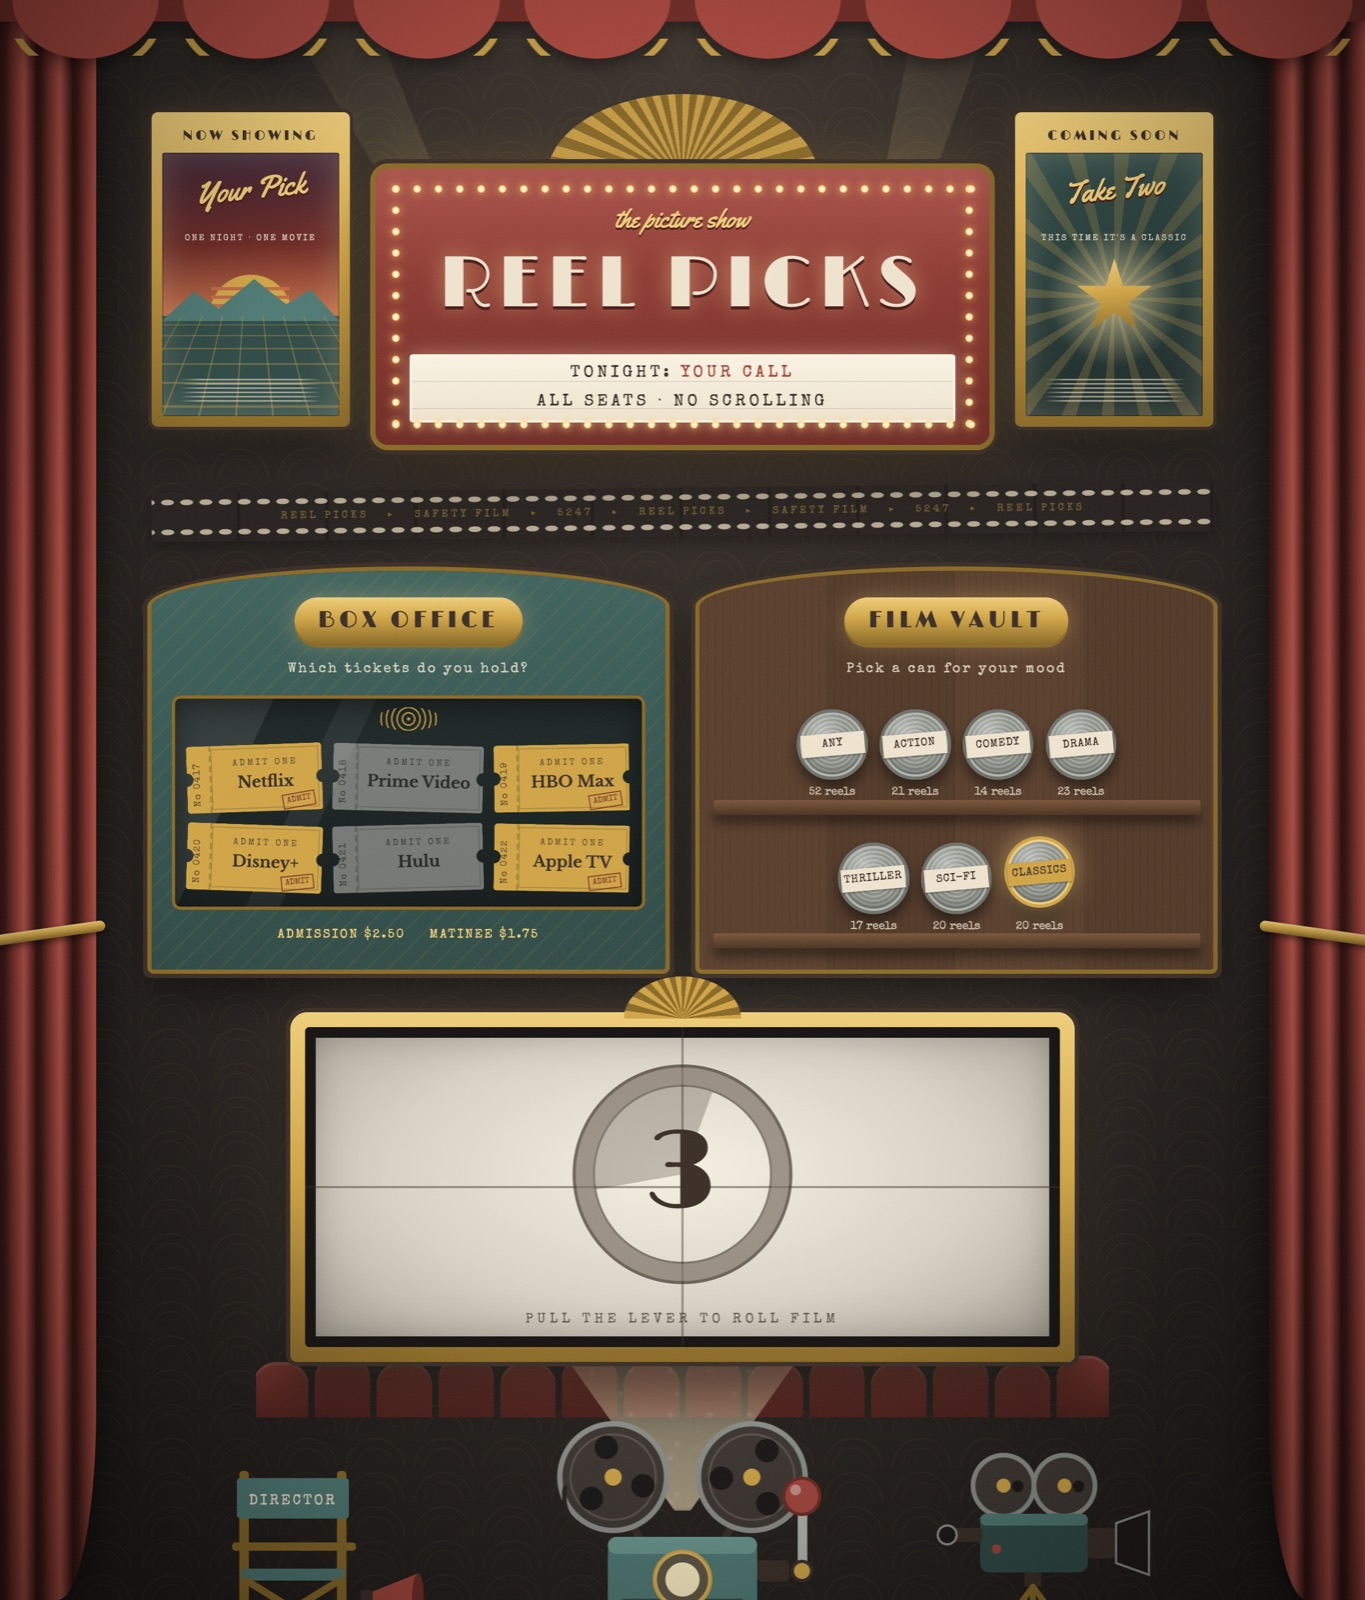
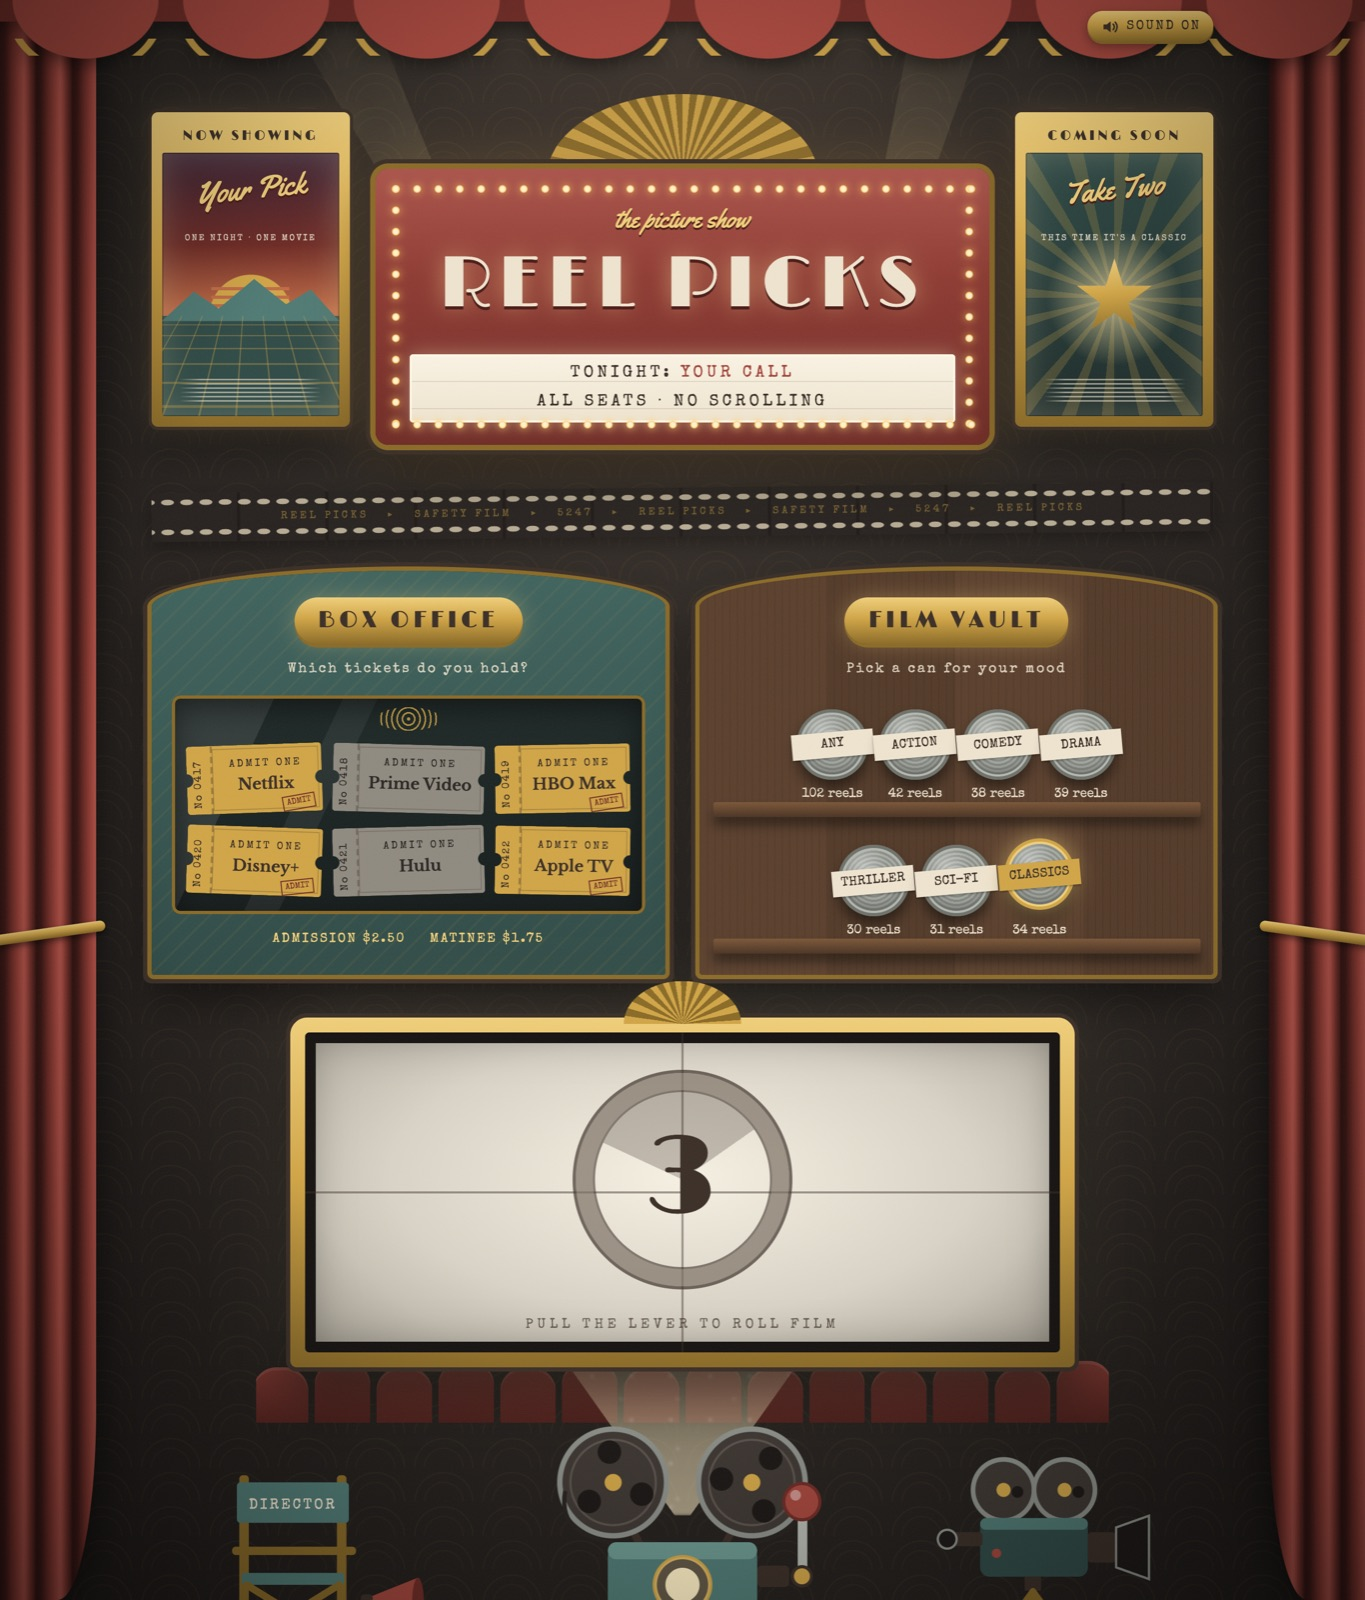
docs: v1.0 case study, ADR 0011, Lighthouse scores, refreshed screenshots

diff --git a/docs/CASE_STUDY.md b/docs/CASE_STUDY.md
@@ -1,0 +1,124 @@
+# Case study: Reel Picks
+
+**One line:** a one-screen web app that turns "what do we watch tonight?" into a three-second,
+slightly theatrical ritual: pick your services and a mood, pull a lever, get one movie.
+
+**Live:** https://ashwynkmr.github.io/reel-picks/ · **Code and history:** this repository
+
+![The spin](design/screenshots/spin.gif)
+
+---
+
+## 1. The problem
+
+Households pay for several streaming services, but every app only shows its own library and is
+designed to keep you browsing. Aggregators solve _where is it streaming_ but hand you another long
+list. The failure isn't a lack of options; it's too many options, split across apps, at the moment
+you're least willing to choose.
+
+**Job to be done:** _when I can't decide, help me commit to a good movie I already have access to,
+fast, so I can stop choosing and start watching._
+
+Personas, competitor gaps and the riskiest assumptions are in
+[problem and opportunity](product/problem-and-opportunity.md). They're labelled as hypotheses: no
+user research was run for this project, and each assumption has a cheap test attached.
+
+## 2. The bet
+
+| Principle                 | In the product                                                        |
+| ------------------------- | --------------------------------------------------------------------- |
+| One answer, not a list    | The reel lands on a single film. Want another? Pull again.            |
+| Enough to say yes in 10 s | IMDb rating, a two-line synopsis, a trailer. Nothing else.            |
+| Make choosing fun         | The spin _is_ the product: a small dopamine hit instead of a chore.   |
+| Honest about limits       | Availability is a dated snapshot, and the app says so in the credits. |
+
+## 3. How it was run
+
+Five phases, each ending in a gate, a pull request with product notes, a tagged release and a
+changelog entry:
+
+| Phase | Shipped                                              | Gate                                    |
+| ----- | ---------------------------------------------------- | --------------------------------------- |
+| 0     | Scaffold, CI/CD, curated catalogue + validator, docs | Every record valid; coverage reviewed   |
+| 1     | Working picker, deliberately unstyled                | Works end to end                        |
+| 2     | The 80s movie-palace look                            | Design signed off (after one rejection) |
+| 3     | The spin, clapperboard and card landing              | Feels right on phone and laptop         |
+| 4     | Sound, 154 films, share preview, audits              | Lighthouse accessibility ≥ 95           |
+
+Function first, then look, then motion: each layer landed on something that already worked, so
+design and animation never had to be debugged at the same time as logic.
+
+## 4. Decisions that mattered
+
+Eleven are recorded in the [decision log](decisions/README.md). The ones with the most product weight:
+
+- **A curated catalogue instead of a live API** ([0001](decisions/0001-static-curated-catalogue.md)).
+  No backend or keys, and every film is one worth recommending, which matters more for a
+  single-pick product than breadth. Cost: availability drifts, so the snapshot date is shown and
+  there's a one-click correction form.
+- **Prefer films each platform owns** ([0005](decisions/0005-prefer-owned-titles.md)). Netflix
+  originals stay on Netflix; Warner films stay on HBO Max. The snapshot stays true far longer, at
+  the cost of balance.
+- **Randomness that feels random** ([0006](decisions/0006-avoid-recent-repeats.md)). True randomness
+  repeats often enough to feel broken, so the last five picks are held back.
+- **Empty states that fix themselves** ([0007](decisions/0007-empty-states-offer-a-fix.md)).
+  "Netflix has no classics" comes with **Add HBO Max** and **Try any genre** buttons, not a dead end.
+- **Put the answer where films go** ([0008](decisions/0008-reveal-on-the-screen.md)). The result
+  appears on the silver screen, not in a modal, so the lever and filters stay in reach for the
+  next pull.
+- **A 3-second reveal, always skippable** ([0010](decisions/0010-motion-without-a-library.md)).
+  Long enough for anticipation, short enough to stay inside the 10-second goal; Skip, the lever or
+  Space cuts straight to the card, and reduced-motion users get it instantly.
+
+## 5. Things the process caught
+
+The most useful moments were the ones where a check disagreed with a plan:
+
+- **A structural market gap, not a data bug.** The catalogue validator prints a platform × genre
+  grid. It showed Netflix and Apple TV have almost no classics, because they own almost no back
+  catalogue. That changed the empty-state design rather than the data.
+- **Design rejected, then reframed.** The first mockup was a themed form and was rejected as
+  "bland, not fun and classy yet." The diagnosis was that it decorated the controls but not the
+  space. The fix was a concept, not more ornaments: the whole page became the theatre.
+  ([design notes](design/README.md))
+- **A stale answer on screen.** While testing Phase 2, a card picked under old filters could sit
+  beside new counts and a jammed lever. Rule adopted: changing the question clears the answer.
+- **Accessibility bugs automated tests found.** Screen readers heard "Classics1 reel"; faded
+  tickets failed contrast. Both fixed, and axe-core now runs on every screen state in CI.
+- **A blank production preview.** Lighthouse reported "no paint"; the cause was a build-path
+  setting that only broke local previews of the production build. Fixed before launch.
+
+## 6. Results
+
+- Shipped v1.0 in five phases, each through CI and a reviewed pull request.
+- 154 hand-picked films across Netflix, Prime Video, HBO Max, Disney+, Hulu and Apple TV.
+- Lighthouse on the production build: **mobile 97 performance / 100 accessibility / 100 best
+  practices / 100 SEO; desktop 100 across the board.**
+- 50 automated tests (logic, full user flows, the reveal timing, accessibility audits).
+- Zero third-party requests: fonts self-hosted, no analytics, sounds synthesized in code.
+
+## 7. What I'd measure next
+
+No analytics shipped, by choice. With privacy-friendly counters, in priority order:
+
+1. **Time from load to first card** (goal < 10 s): the core promise.
+2. **Spins per session** (healthy: 1-3): too many means picks aren't landing.
+3. **Trailer click-through from the card** (> 35%): a proxy for "this pick was interesting."
+4. **Empty-state rate** (< 2% of pulls): catalogue gaps users actually hit.
+5. **Mute rate:** whether sound on by default is the right call.
+
+## 8. What's next
+
+| Idea                                                  | Why                                                     |
+| ----------------------------------------------------- | ------------------------------------------------------- |
+| Scheduled job that checks availability and opens a PR | Keeps the snapshot honest without losing human curation |
+| Verified trailer and IMDb ids                         | Removes the extra click through search results          |
+| "Watched it / not for me" on the card                 | First real signal of pick quality; smarter holds        |
+| Share a pick as a link                                | The couch negotiator sends it to the other person       |
+| More than one mood at a time                          | Only if people ask for it; it dilutes "one answer"      |
+
+## 9. How it was built
+
+Product direction, scope, design review and every decision above were mine. Implementation was
+pair-programmed with Claude Code (Anthropic's AI coding agent), which is credited as co-author on
+the commits. The PRD, decision log, pull requests and changelog show how each call was made.

diff --git a/README.md b/README.md
@@ -6,7 +6,7 @@
 **Pick your streaming services and a mood, pull the lever, get one movie.**
 An 80s movie-palace themed picker that ends "what do we watch tonight?" in under 10 seconds.
 
-**Live:** https://ashwynkmr.github.io/reel-picks/
+**Live:** https://ashwynkmr.github.io/reel-picks/ · **Case study:** [how it was scoped, designed and shipped](docs/CASE_STUDY.md)
 
 ![The Reel Picks lobby: a bulb-lit marquee between two poster cases, a box office of admission tickets, a film vault of labelled cans, and a silver screen showing a film-leader countdown](docs/design/screenshots/lobby.jpg)
 
@@ -16,9 +16,15 @@ An 80s movie-palace themed picker that ends "what do we watch tonight?" in under
 | -------------------------------------------------------------------------------------------------------------------------------------- | ------------------------------------------------------------------------------------------------------------------------------------------------------- |
 | ![Result card for Joker with a generated poster, clapperboard slate, IMDb seal and trailer ticket](docs/design/screenshots/reveal.jpg) | ![Intermission card saying Netflix has no classics, with buttons to add HBO Max, add Disney+ or try any genre](docs/design/screenshots/empty-state.jpg) |
 
-> Built in public as a product case study: every phase ships with its reasoning.
-> Start with the [problem](docs/product/problem-and-opportunity.md), then the [PRD](docs/PRD.md) and
-> the [decision log](docs/decisions/README.md).
+> Built in public as a product case study: every phase shipped through a reviewed PR with its
+> reasoning. Start with the [case study](docs/CASE_STUDY.md), then the
+> [problem](docs/product/problem-and-opportunity.md), the [PRD](docs/PRD.md) and the
+> [decision log](docs/decisions/README.md).
+
+| Lighthouse (production) | Performance | Accessibility | Best practices | SEO |
+| ----------------------- | ----------- | ------------- | -------------- | --- |
+| Mobile                  | 97          | 100           | 100            | 100 |
+| Desktop                 | 100         | 100           | 100            | 100 |
 
 ---
 
@@ -54,6 +60,7 @@ fast, so I can stop choosing and start watching._
 | [Show the result on the screen, not a modal](docs/decisions/0008-reveal-on-the-screen.md)          | Filters and lever stay in reach; custom focus management replaces the dialog's built-in trap.         |
 | [Self-host fonts](docs/decisions/0009-self-host-fonts.md)                                          | No third-party requests; a slightly larger bundle.                                                    |
 | [Reveal with CSS keyframes, no animation library](docs/decisions/0010-motion-without-a-library.md) | 0 KB added and compositor-smooth; no physics springs or drag gestures.                                |
+| [Synthesized sound, on by default](docs/decisions/0011-synthesized-sound.md)                       | No audio files or licensing, synced to the animation; less realistic than recordings.                 |
 
 ## What I'd measure
 
@@ -69,26 +76,32 @@ Details and the riskiest assumptions: [problem and opportunity](docs/product/pro
 | 1     | Working picker: filters, no-repeat random pick, result card  | Done   |
 | 2     | 80s look: marquee, ticket and film-can filters, projector    | Done   |
 | 3     | Motion: film-strip spin, lever, clapperboard reveal          | Done   |
-| 4     | Polish: mobile, accessibility, sound, ~150 films, launch     | Next   |
+| 4     | Polish: mobile, accessibility, sound, ~150 films, launch     | Done   |
+
+v1.0 is shipped. What I'd build next is in the [case study](docs/CASE_STUDY.md#8-whats-next).
 
 Changes per phase: [CHANGELOG](CHANGELOG.md). How the look evolved, including a rejected first
 mockup: [design notes](docs/design/README.md).
 
 ## Catalogue
 
-76 films today (target ~150), US availability as of 2026-09-27, across Netflix, Prime Video,
-HBO Max, Disney+, Hulu and Apple TV. `npm run validate:data` checks every record and prints a
-coverage grid of films per platform and genre, which is how the classics gap was found:
+154 hand-picked films, US availability as of 2026-09-27, across Netflix, Prime Video, HBO Max,
+Disney+, Hulu and Apple TV. `npm run validate:data` checks every record and prints a coverage grid
+of films per platform and genre:
 
 ```
 platform   classics   action   comedy    drama thriller    scifi
-netflix          0!        4        3        5        6        5
-prime             3        4        4        7        4       1!
-max              10        5        3        5        7        5
-disney           10        8        5        6        3        8
-hulu              4        4        7        6        7        7
-appletv          0!        4        3        7       1!        2
+netflix          1!        8       11       11       11        7
+prime             6       10        7       12        9        5
+max              15       10        8        8       12        8
+disney           18       17       14        9        4       13
+hulu             10        8       13       15       12       10
+appletv          0!        7        5       11        3        3
 ```
+
+The two `!` cells are real market gaps, not missing data: Netflix and Apple TV own almost no
+catalogue classics. The app says so and offers a one-tap fix
+([ADR 0007](docs/decisions/0007-empty-states-offer-a-fix.md)).
 
 Spot a film that moved platforms? [Open a catalogue correction](https://github.com/ashwynkmr/reel-picks/issues/new?template=data_correction.yml).
 
@@ -102,7 +115,8 @@ deploys `main` to GitHub Pages.
 ```
 src/
   domain/      Pure logic: types, filtering, no-repeat picking, validation, links (unit-tested)
-  hooks/       usePicker (filters, pick, reveal phases), usePersistentState, usePrefersReducedMotion
+  hooks/       usePicker (filters, pick, reveal phases), useRevealSounds, usePersistentState, ...
+  audio/       Synthesized projector whir, clapper and seal thud (Web Audio API)
   components/  Box office, film vault, theater + projector lever, reel spinner, slate, result card
     decor/     Curtains, film strip, set props (purely decorative, aria-hidden)
   styles/      Design tokens and base styles
@@ -119,6 +133,7 @@ Requires Node 22.18 or newer.
 npm install
 npm run dev        # http://localhost:5173
 npm run check      # everything CI runs
+npm run build && npm run preview   # the production build at http://localhost:4173/reel-picks/
 ```
 
 ## License

diff --git a/docs/PRD.md b/docs/PRD.md
@@ -2,7 +2,7 @@
 
 - **Owner:** [@ashwynkmr](https://github.com/ashwynkmr)
 - **Last updated:** 2026-09-27
-- **Status:** In development (see [roadmap](#development-phases))
+- **Status:** v1.0 shipped (see [roadmap](#development-phases) and the [case study](CASE_STUDY.md))
 
 Background, personas and competitive gaps: [problem and opportunity](product/problem-and-opportunity.md).
 Decisions and tradeoffs: [decision log](decisions/README.md).
@@ -60,7 +60,7 @@ If nothing matches, the lever jams with a "No reels in the can" message and a su
 
 ## Data
 
-About 150 films in `src/data/catalogue.json`, blending classics, 2000s favourites and recent releases.
+154 films in `src/data/catalogue.json`, blending classics, 2000s favourites and recent releases.
 Schema and rules live in `src/domain/catalogue.ts` and are enforced by `npm run validate:data` in CI,
 which also prints a platform x genre coverage grid to catch thin combinations.
 
@@ -94,4 +94,4 @@ everything else under 250 ms.
 | 1     | Filters, `usePicker` hook, no-repeat history, plain result card, empty state, keyboard | Works end to end, unstyled                   | Done   |
 | 2     | 80s look: palette, type, marquee, tickets, film cans, projector, grain                 | Look signed off                              | Done   |
 | 3     | Motion: film-strip spin, lever pull, clapperboard card, reduced-motion                 | Spin-to-card feels right on phone and laptop | Done   |
-| 4     | Mobile polish, accessibility pass, sounds, catalogue to ~150, launch                   | Lighthouse a11y ≥ 95; shared publicly        | Next   |
+| 4     | Mobile polish, accessibility pass, sounds, catalogue to ~150, launch                   | Lighthouse a11y ≥ 95; shared publicly        | Done   |

diff --git a/docs/decisions/0011-synthesized-sound.md b/docs/decisions/0011-synthesized-sound.md
@@ -1,0 +1,32 @@
+# 0011. Synthesize sound effects in code; on by default with a remembered mute
+
+- **Status:** Accepted
+- **Date:** 2026-09-27
+
+## Context
+
+Sound was requested as part of the fun: a projector whir during the spin and a clapper snap on the
+reveal. Options:
+
+1. **Audio files** (stock or recorded): realistic, but need licensing, hosting and a download
+   before the first spin, and they play at a fixed speed regardless of the animation.
+2. **Synthesized with the Web Audio API:** generated at runtime from oscillators and filtered noise.
+
+## Decision
+
+Synthesize all three sounds (whir, clap, seal thud) in `src/audio/sounds.ts`, driven by the reveal
+phase so they can't drift out of sync. The sprocket clicks use the same deceleration curve as the
+reel, so the sound slows down with the picture.
+
+**On by default,** because sound is part of the dopamine hit the product is built around. The
+choice is remembered. Browsers only allow audio after a user gesture, and the lever pull is one,
+so nothing ever plays on page load.
+
+## Consequences
+
+- **Gained:** 0 KB of audio assets, nothing to license, sound matched frame-for-frame to the
+  animation, and it degrades to silence where Web Audio is missing.
+- **Gave up:** realism. A recorded projector would sound richer.
+- **Risk:** sound on by default can surprise someone in a quiet room. Mitigations: nothing plays
+  until they pull the lever, the toggle is always visible, and it remembers "off". If this app had
+  analytics, the mute rate would tell us whether the default is right.

diff --git a/CHANGELOG.md b/CHANGELOG.md
@@ -3,6 +3,26 @@
 All notable changes, grouped by development phase. Format based on
 [Keep a Changelog](https://keepachangelog.com/en/1.1.0/); versions follow [SemVer](https://semver.org/).
 
+## [1.0.0] - 2026-09-27 - Phase 4: polish and launch
+
+### Added
+
+- Sound (ADR 0011): synthesized projector whir whose sprocket clicks slow with the reel, a clapper
+  crack on the slate and a soft thud as the IMDb seal lands. On by default, remembered mute toggle
+  hung on the valance. Nothing plays until the lever is pulled.
+- Catalogue grown from 76 to 154 films; Prime sci-fi (1 → 5) and Apple TV thrillers (1 → 3) filled.
+- Link previews: Open Graph and Twitter cards with a 1200×630 marquee image, description,
+  canonical URL and theme colour.
+- Case study (`docs/CASE_STUDY.md`).
+
+### Fixed
+
+- Selected and unselected tickets' small print failed contrast; off tickets are now an explicit
+  worn grey instead of 45% opacity. Lighthouse accessibility 95 → 100.
+- Functional text raised to at least 12 px on phones (can labels and counts, letterboard, prices).
+- Can labels clipped on narrow phones; tape now overhangs the lid slightly.
+- `vite preview` served the production build at the wrong base path, rendering a blank page locally.
+
 ## [0.4.0] - 2026-09-27 - Phase 3: the reveal
 
 ### Added

diff --git a/docs/product/problem-and-opportunity.md b/docs/product/problem-and-opportunity.md
@@ -71,9 +71,10 @@ lot, the fix is better picks, not hiding the lever.
 
 ## 7. Known gaps (found while building)
 
-- **Classics are concentrated on HBO Max and Disney+.** Netflix and Apple TV own almost no catalogue
-  classics, so "Netflix + Classics" returns nothing. This is a real market fact, not a data bug;
-  the empty state must explain it and suggest adding a platform. (Found by the coverage grid in Phase 0.)
+- **Classics are concentrated on HBO Max, Disney+ and Hulu.** Netflix owns one classic in the
+  catalogue (Klaus) and Apple TV none, so "Apple TV + Classics" returns nothing. This is a real
+  market fact, not a data bug; the empty state explains it and offers to add a platform. (Found by
+  the coverage grid in Phase 0; still true at 154 films.)
 - **Availability rotates monthly** for licensed titles. Mitigated by favouring originals and
   studio-owned films ([ADR 0005](../decisions/0005-prefer-owned-titles.md)).
 - **US only.** Rights differ by country; international support would need a data source per region.

diff --git a/docs/decisions/README.md b/docs/decisions/README.md
@@ -16,3 +16,4 @@ Written at the time of the decision so the reasoning isn't reconstructed later.
 | [0008](0008-reveal-on-the-screen.md)     | Show the result on the silver screen, not in a modal      | Accepted |
 | [0009](0009-self-host-fonts.md)          | Self-host fonts; no third-party requests                  | Accepted |
 | [0010](0010-motion-without-a-library.md) | Reveal built with CSS keyframes and a phase timer         | Accepted |
+| [0011](0011-synthesized-sound.md)        | Synthesize sound in code; on by default, remembered mute  | Accepted |
